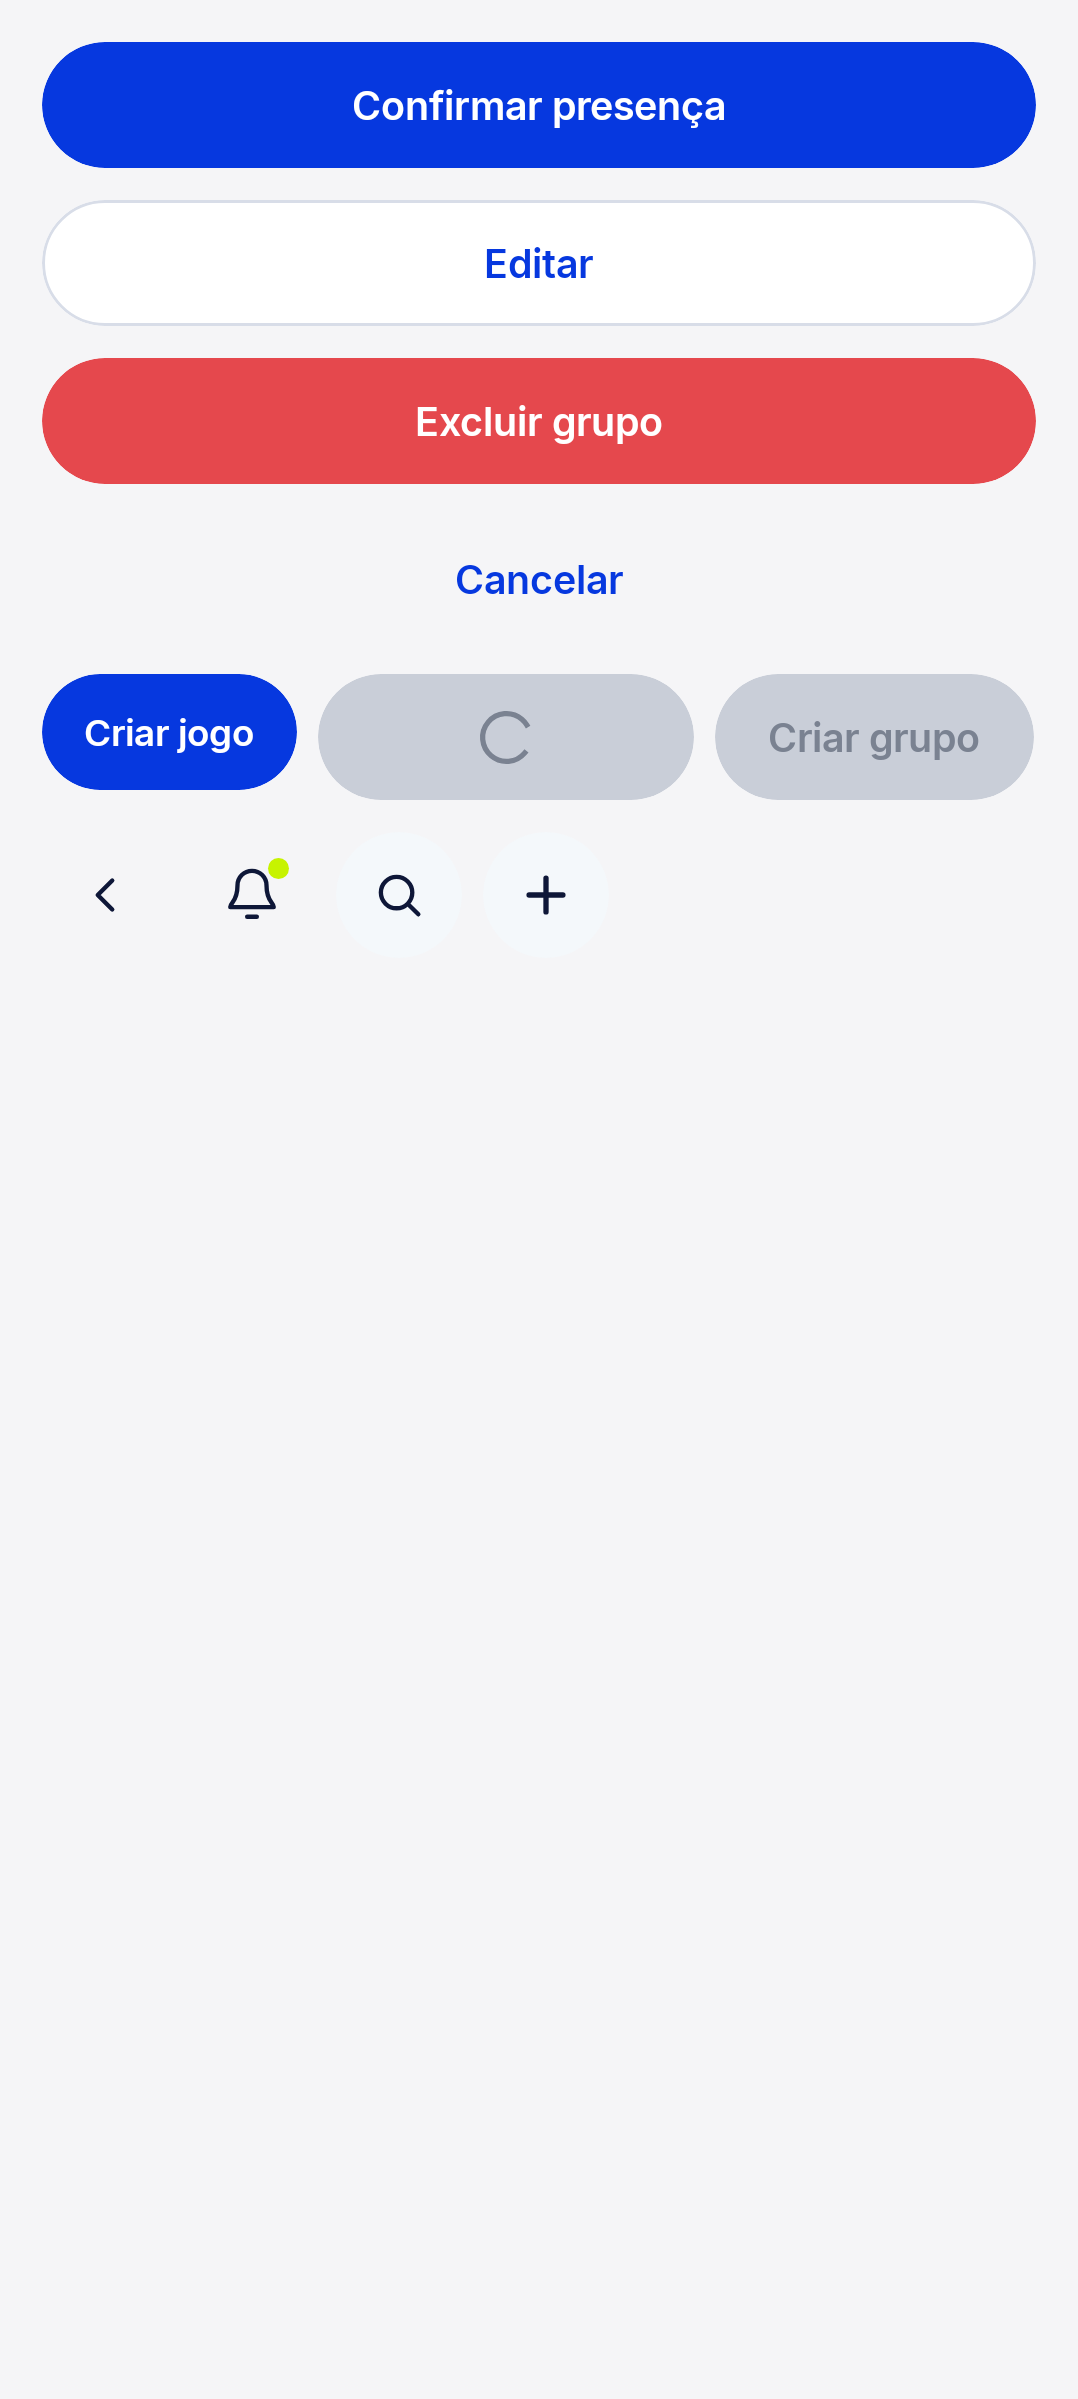
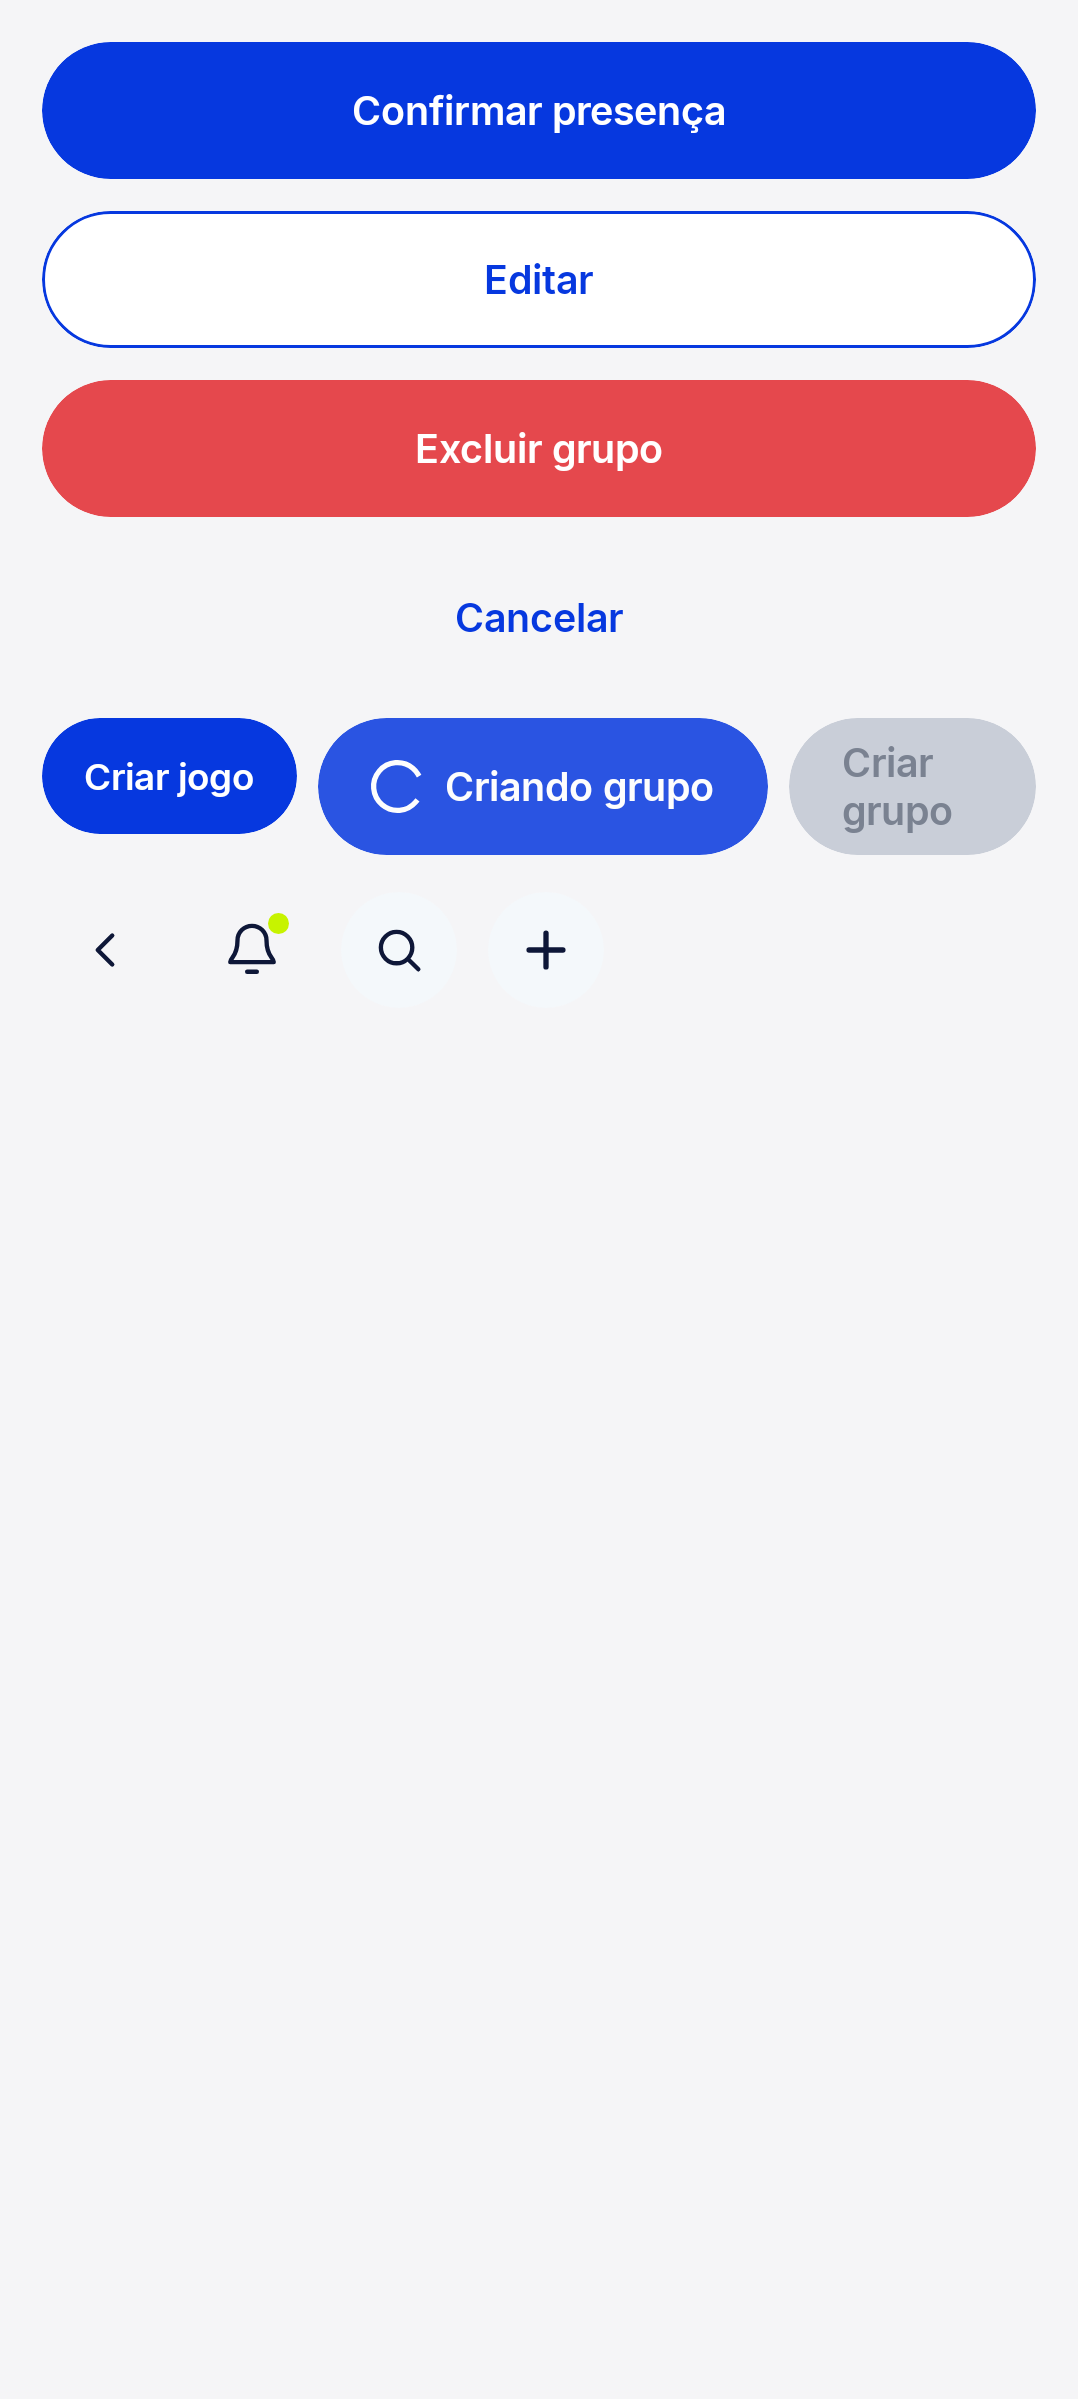
fix(design-system): alvo de toque de 48 no IconButton e borda que respeita o desabilitado
Dois achados do review do Codex no #33.

O IconButton punha o clicável na própria caixa de 44, encolhendo o alvo de 48
para 44 — o que desfaz na prática o piso de acessibilidade que o VUL-44 fixou. O
comentário do SaqzMetrics já dizia como resolver: "quem quiser 48 aumenta a área
de toque em volta, não o desenho". Agora são duas caixas — a externa de 48 leva o
toque e a semântica, a interna de 44 leva clip, fundo e glifo. O ponto do `dot`
se ancora no círculo visual, senão descolaria da borda por 2dp de cada lado.

A borda do secondary passou a ser azul neste PR, mas era lida sem olhar `enabled`:
um botão desabilitado ficava com contorno azul de botão clicável enquanto o
container e o rótulo já tinham caído para a paleta cinza.

O teste que afirmava alvo de 44 passa a afirmar 48, com uma asserção extra de que
o desenho é menor que o alvo — se um dia empatarem, o teste avisa em vez de calar.

Changed region(s): [[0.0306, 0.0308, 0.9796, 0.401], [0.949, 0.0925, 0.9796, 0.1234], [0.0306, 0.0925, 0.0612, 0.1234]]

diff --git a/mobile/core/design-system/src/commonMain/kotlin/br/com/saqz/designsystem/SaqzButton.kt b/mobile/core/design-system/src/commonMain/kotlin/br/com/saqz/designsystem/SaqzButton.kt
@@ -143,6 +143,10 @@ fun SaqzButton(
     val container = if (enabled) resolved.container else colors.disabledSurface
     val content = if (enabled) contentColor ?: resolved.content else colors.disabledForeground
     val loadingDim = if (loading) 0.85f else 1f
+    // A borda acompanha `enabled` pelo mesmo motivo do container: `primary` desenha a
+    // linha azul do secondary no export, e mantê-la desabilitado deixaria contorno de
+    // botão clicável num botão que não responde.
+    val outline = if (enabled) borderColor ?: resolved.border else null
 
     Box(
         // clickable fica depois de clip/background para a área de toque respeitar a
@@ -162,9 +166,7 @@ fun SaqzButton(
             .sizeIn(minWidth = minHeight, minHeight = minHeight)
             .clip(shape)
             .background(container, shape)
-            .then(
-                (borderColor ?: resolved.border)?.let { Modifier.border(1.dp, it, shape) } ?: Modifier,
-            )
+            .then(outline?.let { Modifier.border(1.dp, it, shape) } ?: Modifier)
             .clickable(
                 interactionSource = interactionSource,
                 indication = null,
@@ -234,11 +236,13 @@ fun SaqzIconButton(
         soft -> colors.surfaceSoft
         else -> null
     }
+    // Duas caixas de propósito: o desenho do export manda no círculo (44dp), o piso de
+    // acessibilidade manda no alvo (48dp). O toque e a semântica vivem na caixa externa,
+    // o clip, o fundo e o glifo na interna — encolher o alvo para casar com o visual é
+    // regressão, e igualar o visual ao alvo é desobedecer o design.
     Box(
         modifier = modifier
-            .size(size)
-            .clip(CircleShape)
-            .then(background?.let { Modifier.background(it, CircleShape) } ?: Modifier)
+            .sizeIn(minWidth = SaqzTheme.metrics.minimumTouchTarget, minHeight = SaqzTheme.metrics.minimumTouchTarget)
             .clickable(
                 enabled = enabled,
                 onClickLabel = contentDescription,
@@ -248,15 +252,26 @@ fun SaqzIconButton(
             .semantics { this.contentDescription = contentDescription },
         contentAlignment = Alignment.Center,
     ) {
-        Box(modifier = Modifier.clearAndSetSemantics {}) { content() }
-        if (dot) {
+        // O ponto se ancora no círculo visual, não no alvo de toque: preso à caixa de 48
+        // ele descolaria da borda do desenho por 2dp de cada lado.
+        Box(modifier = Modifier.size(size)) {
             Box(
                 modifier = Modifier
-                    .align(Alignment.TopEnd)
-                    .offset(x = (-10).dp, y = 10.dp)
-                    .size(8.dp)
-                    .background(colors.accent, CircleShape),
-            )
+                    .matchParentSize()
+                    .clip(CircleShape)
+                    .then(background?.let { Modifier.background(it, CircleShape) } ?: Modifier)
+                    .clearAndSetSemantics {},
+                contentAlignment = Alignment.Center,
+            ) { content() }
+            if (dot) {
+                Box(
+                    modifier = Modifier
+                        .align(Alignment.TopEnd)
+                        .offset(x = (-8).dp, y = 8.dp)
+                        .size(8.dp)
+                        .background(colors.accent, CircleShape),
+                )
+            }
         }
     }
 }

diff --git a/mobile/core/design-system/src/commonTest/kotlin/br/com/saqz/designsystem/SaqzButtonTest.kt b/mobile/core/design-system/src/commonTest/kotlin/br/com/saqz/designsystem/SaqzButtonTest.kt
@@ -239,10 +239,16 @@ class SaqzButtonTest {
                 ) { SaqzIcon(SaqzIcons.Plus, tint = SaqzTheme.colors.onPrimary) }
             }
         }
-        // O fundo azul não come nem o nome acessível nem os 44×44 que o export exige.
+        // O alvo é o piso de acessibilidade (48), não o desenho (44): o círculo do export
+        // continua com 44, mas quem recebe o toque é a caixa em volta. Encolher isto para
+        // `iconButtonSize` reintroduz o alvo de 44 que o review do #33 pegou.
         val bounds = onNodeWithTag("fab").getUnclippedBoundsInRoot()
-        assertEquals(SaqzMetrics.Default.iconButtonSize, bounds.width)
-        assertEquals(SaqzMetrics.Default.iconButtonSize, bounds.height)
+        assertEquals(SaqzMetrics.Default.minimumTouchTarget, bounds.width)
+        assertEquals(SaqzMetrics.Default.minimumTouchTarget, bounds.height)
+        assertTrue(
+            SaqzMetrics.Default.iconButtonSize < SaqzMetrics.Default.minimumTouchTarget,
+            "o desenho é menor que o alvo — se empatarem, este teste deixa de provar algo",
+        )
         onNodeWithContentDescription("Criar jogo").assertExists()
         onNodeWithTag("fab").performClick()
         waitForIdle()
